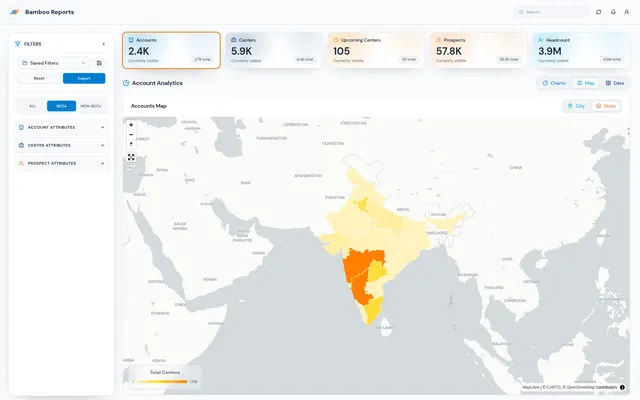
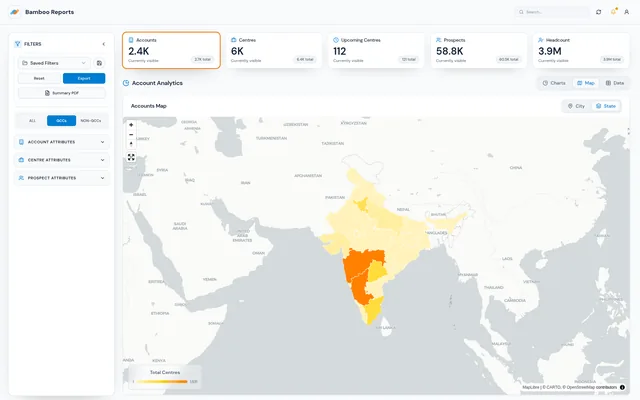
feat: promote Platform to top-level nav, refresh hero, align Q2 report copy
Move Platform out of the What we offer dropdown into the header nav
(desktop and mobile) and the footer's Explore column. Regenerate the
shared platform hero shot used on /platform and /about from the
September product screenshot. Align the Q2 report landing page with
the final PDF: use the report's three findings, drop over-claims
about mapping every centre and a methodology section, and match the
report's own section wording.

Claude-Session: https://claude.ai/code/session_01XpoHkMFbQG2YRi7NYCozG7

diff --git a/src/pages/reports/IndiaGccReportQ22026.tsx b/src/pages/reports/IndiaGccReportQ22026.tsx
@@ -18,16 +18,16 @@ const NUMBERS = [
 
 const FINDINGS = [
   {
-    lead: "The market accelerated:",
-    rest: "110 centre events made this quarter 43% larger than the last, with 84 centres operating and 26 announced.",
+    lead: "Entry and expansion:",
+    rest: "40% of the 99 companies entered India for the first time, while the remaining 60% added centres or expanded existing ones.",
   },
   {
-    lead: "Activity concentrated:",
-    rest: "Bengaluru and Hyderabad accounted for half of all centres, while 95% of announced roles were mid or senior level.",
+    lead: "Hiring and talent:",
+    rest: "75K+ roles were announced, 32% in Bengaluru and 25% in Hyderabad, with 95% at mid or senior level and AI/ML the second-largest hiring function.",
   },
   {
-    lead: "AI moved into the charter:",
-    rest: "23% of new centres opened with an AI or machine-learning mandate, and AI/ML became the second-largest hiring function.",
+    lead: "AI-first mandates:",
+    rest: "23% of new centres opened with an AI or machine-learning focus as part of their core mandate, making AI a reason to open a centre rather than a function added later.",
   },
 ];
 
@@ -52,7 +52,7 @@ const FAQS = [
   {
     question: "How is the data collected?",
     answer:
-      "From the Bamboo Reports platform, which tracks individual GCC centres across India at coordinate level, enriched by an analyst team since 2022. The report's methodology section sets out sources and definitions.",
+      "From the Bamboo Reports platform, which tracks individual GCC centres across India at coordinate level, enriched by an analyst team since 2022. The report sets out its data conventions up front and describes the platform behind the numbers in its closing section.",
   },
 ];
 
@@ -179,7 +179,7 @@ const IndiaGccReportQ22026 = () => {
               In this edition
             </p>
             <h2 className="mt-3 text-2xl font-bold leading-snug tracking-tight text-navy md:text-3xl">
-              Three signals that shaped the quarter
+              Three findings that defined the quarter
             </h2>
             <div className="mt-6 grid items-center gap-8 sm:grid-cols-[auto_1fr] sm:gap-10">
               <img
@@ -209,11 +209,11 @@ const IndiaGccReportQ22026 = () => {
               <strong className="font-semibold text-foreground">
                 Also inside:
               </strong>{" "}
-              every centre mapped with Bengaluru and Hyderabad at
-              micro-cluster level, the announced-centre pipeline with expected
+              the quarter's centres mapped by city, with Bengaluru and
+              Hyderabad broken out by micro-cluster, the announced-centre pipeline with expected
               go-live windows, the 75K+ role talent signal, a BFSI sector focus,
               and two Q3 2026 predictions that will be scored openly in the
-              next edition. Full methodology included.
+              next edition. Data conventions and sources included.
             </p>
           </section>
         </div>
@@ -237,8 +237,8 @@ const IndiaGccReportQ22026 = () => {
               >
                 Bamboo Reports
               </a>
-              , our intelligence platform that tracks every GCC centre in
-              India at coordinate level, enriched continuously by our analyst
+              , our intelligence platform that tracks individual GCC centres
+              across India at coordinate level, enriched continuously by our analyst
               team since 2022. Every figure is a count from tracked centres,
               not a modelled estimate, and where a figure depends on company
               disclosure, the report says so.

diff --git a/src/components/Header.tsx b/src/components/Header.tsx
@@ -52,6 +52,14 @@ const Header = () => {
               )}
 
               <NavigationMenuItem>
+                <Link to="/platform">
+                  <NavigationMenuLink className={navigationMenuTriggerStyle()}>
+                    Platform
+                  </NavigationMenuLink>
+                </Link>
+              </NavigationMenuItem>
+
+              <NavigationMenuItem>
                 <NavigationMenuTrigger>What we offer</NavigationMenuTrigger>
                 <NavigationMenuContent>
                   <ul className="grid w-[320px] gap-1 p-2">
@@ -82,16 +90,6 @@ const Header = () => {
                           className="block select-none rounded-md px-3 py-2 text-sm font-medium leading-none no-underline outline-none transition-colors hover:bg-muted hover:text-foreground focus:bg-muted focus:text-foreground"
                         >
                           GCC Prospect Data
-                        </Link>
-                      </NavigationMenuLink>
-                    </li>
-                    <li>
-                      <NavigationMenuLink asChild>
-                        <Link
-                          to="/platform"
-                          className="block select-none rounded-md px-3 py-2 text-sm font-medium leading-none no-underline outline-none transition-colors hover:bg-muted hover:text-foreground focus:bg-muted focus:text-foreground"
-                        >
-                          Platform
                         </Link>
                       </NavigationMenuLink>
                     </li>
@@ -169,6 +167,15 @@ const Header = () => {
                     </Link>
                   )}
 
+                  <Link
+                    to="/platform"
+                    className="flex items-center justify-between py-3 text-base font-medium hover:text-primary transition-colors duration-micro ease-smooth border-b pb-4"
+                    onClick={() => setMobileMenuOpen(false)}
+                  >
+                    Platform
+                    <ChevronRight className="h-5 w-5" />
+                  </Link>
+
                   <details className="group border-b pb-2">
                     <summary className="flex items-center justify-between py-3 text-base font-medium hover:text-primary transition-colors duration-micro ease-smooth cursor-pointer list-none">
                       What we offer
@@ -195,13 +202,6 @@ const Header = () => {
                         onClick={() => setMobileMenuOpen(false)}
                       >
                         GCC Prospect Data
-                      </Link>
-                      <Link
-                        to="/platform"
-                        className="block py-2 text-sm text-muted-foreground hover:text-primary transition-colors duration-micro ease-smooth"
-                        onClick={() => setMobileMenuOpen(false)}
-                      >
-                        Platform
                       </Link>
                     </div>
                   </details>

diff --git a/src/components/Footer.tsx b/src/components/Footer.tsx
@@ -7,6 +7,7 @@ import { GCC_TRACKER_ENABLED } from "@/lib/featureFlags";
 
 const exploreLinks = [
   ...(GCC_TRACKER_ENABLED ? [{ label: "GCC Tracker", to: "/gcc" }] : []),
+  { label: "Platform", to: "/platform" },
   { label: "About us", to: "/about" },
   { label: "Success stories", to: "/success-stories" },
   { label: "Resources", to: "/resources" },
@@ -17,7 +18,6 @@ const offerLinks = [
   { label: "Account and Market Intelligence", to: "/account-market-intelligence" },
   { label: "GCC ABM", to: "/gcc-abm" },
   { label: "GCC Prospect Data", to: "/gcc-prospect-data" },
-  { label: "Platform", to: "/platform" },
 ];
 
 const Footer = ({ showCta = true }: { showCta?: boolean }) => {
